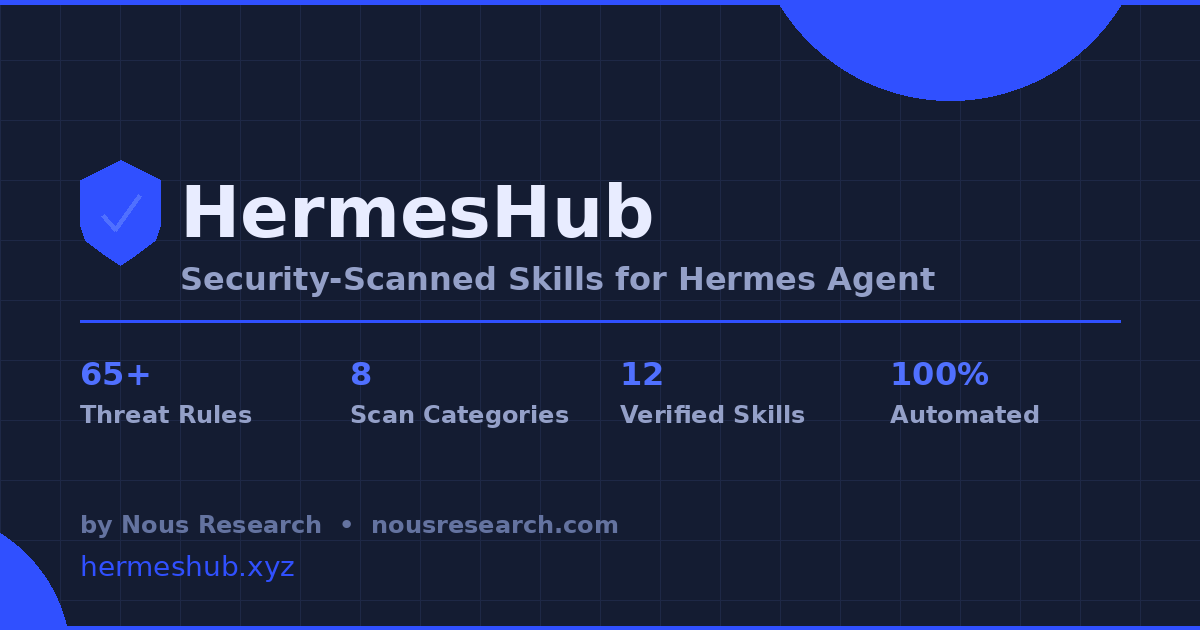
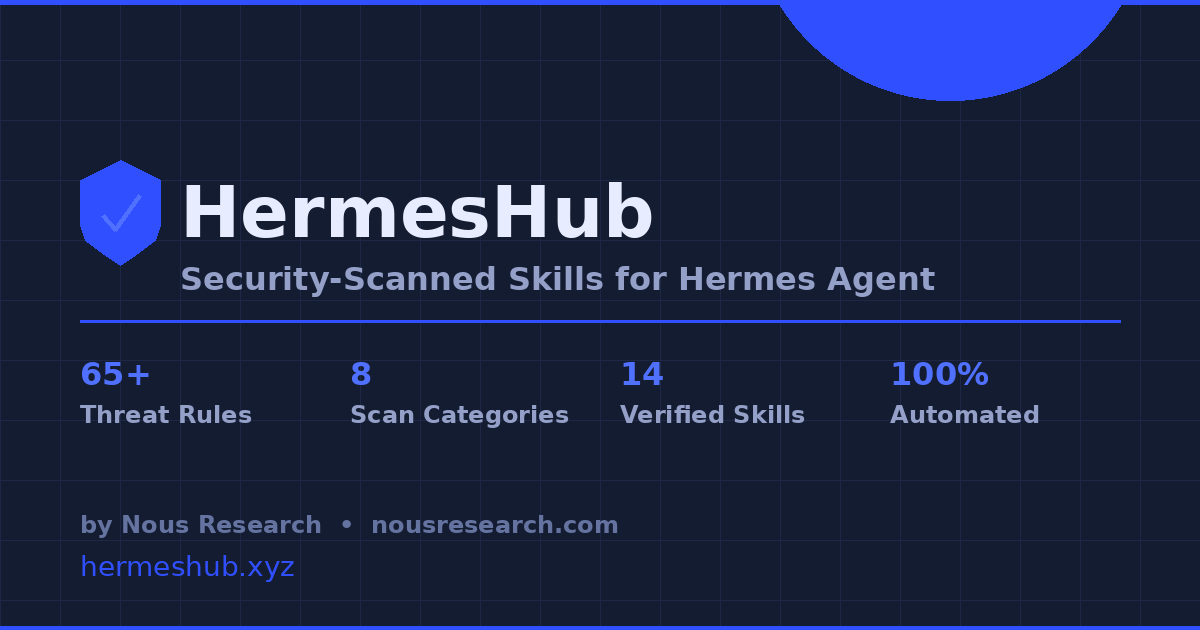
fix: auto-regenerate OG image with dynamic skill count
- Integrate generate-og.py into sync-skills.js (graceful fallback if no Pillow)
- Add Python + Pillow step to sync-skills GitHub Action
- Regenerated og-image.png with correct count (14)
- OG image now auto-updates whenever skills are added/removed

Changed region(s): [[0.0, 0.8444, 0.0617, 0.9952], [0.5242, 0.573, 0.555, 0.6032]]

diff --git a/scripts/sync-skills.js b/scripts/sync-skills.js
@@ -14,6 +14,7 @@
 import { readdirSync, readFileSync, writeFileSync, existsSync } from "fs";
 import { join, resolve } from "path";
 import { fileURLToPath } from "url";
+import { execSync } from "child_process";
 
 const __dirname = resolve(fileURLToPath(import.meta.url), "..");
 const ROOT = resolve(__dirname, "..");
@@ -296,6 +297,27 @@ ${skillUrls}
     }
     writeFileSync(META_FILE, JSON.stringify(metaObj, null, 2) + "\n", "utf-8");
     console.log(`📝 Created ${META_FILE} — edit this to customize featured/installCount/displayName`);
+  }
+
+  // ── Regenerate OG image with current skill count ───────────────────────
+  const ogScript = join(ROOT, "scripts/generate-og.py");
+  if (existsSync(ogScript)) {
+    try {
+      console.log(`\n🖼 Regenerating OG image with ${count} skills...`);
+      execSync(`python3 "${ogScript}" ${count}`, {
+        cwd: ROOT,
+        stdio: "inherit",
+      });
+    } catch (_) {
+      try {
+        execSync(`python "${ogScript}" ${count}`, {
+          cwd: ROOT,
+          stdio: "inherit",
+        });
+      } catch (_e) {
+        console.warn("⚠ OG image generation skipped (Python/Pillow not available)");
+      }
+    }
   }
 
   console.log(`\n✅ Sync complete: ${count} skills`);

diff --git a/scripts/generate-og.py b/scripts/generate-og.py
@@ -1,0 +1,116 @@
+#!/usr/bin/env python3
+"""Generate OG image for HermesHub with dynamic skill count.
+
+Usage: python scripts/generate-og.py [skill_count]
+If no argument, counts skills/*/SKILL.md directories automatically.
+"""
+import sys
+import os
+from pathlib import Path
+
+# Determine skill count
+if len(sys.argv) > 1:
+    skill_count = sys.argv[1]
+else:
+    skills_dir = Path(__file__).resolve().parent.parent / "skills"
+    count = sum(1 for d in skills_dir.iterdir()
+                if d.is_dir() and (d / "SKILL.md").exists())
+    skill_count = str(count)
+
+try:
+    from PIL import Image, ImageDraw, ImageFont
+except ImportError:
+    print(f"⚠ Pillow not installed — skipping OG image generation (would show {skill_count} skills)")
+    sys.exit(0)
+
+ROOT = Path(__file__).resolve().parent.parent
+OUTPUT = ROOT / "client" / "public" / "og-image.png"
+
+W, H = 1200, 630
+BG = (10, 14, 26)
+ACCENT = (48, 80, 255)
+ACCENT2 = (80, 112, 255)
+TEXT = (232, 236, 255)
+MUTED = (148, 160, 200)
+
+img = Image.new("RGBA", (W, H), BG + (255,))
+draw = ImageDraw.Draw(img)
+
+# Background gradient
+for y in range(H):
+    opacity = int(8 + 4 * abs((y - H/2) / (H/2)))
+    draw.line([(0, y), (W, y)], fill=(20, 28, 50, min(opacity, 30)))
+
+# Grid
+for x in range(0, W, 60):
+    draw.line([(x, 0), (x, H)], fill=(30, 40, 70, 20), width=1)
+for y in range(0, H, 60):
+    draw.line([(0, y), (W, y)], fill=(30, 40, 70, 20), width=1)
+
+# Glow top-right
+for r in range(200, 0, -2):
+    alpha = int(12 * (1 - r/200))
+    draw.ellipse([W-250-r, -100-r, W-250+r, -100+r], fill=(48, 80, 255, alpha))
+
+# Top/bottom accent bars
+draw.rectangle([0, 0, W, 4], fill=ACCENT)
+draw.rectangle([0, H-4, W, H], fill=ACCENT)
+
+# Fonts
+font_large = font_med = font_small = font_body = None
+for fp in ["/usr/share/fonts/truetype/dejavu/DejaVuSans-Bold.ttf",
+           "/usr/share/fonts/truetype/liberation/LiberationSans-Bold.ttf"]:
+    if os.path.exists(fp):
+        font_large = ImageFont.truetype(fp, 72)
+        font_med = ImageFont.truetype(fp, 32)
+        font_small = ImageFont.truetype(fp, 24)
+        break
+if font_large is None:
+    font_large = ImageFont.load_default()
+    font_med = font_large
+    font_small = font_large
+
+for fp in ["/usr/share/fonts/truetype/dejavu/DejaVuSans.ttf",
+           "/usr/share/fonts/truetype/liberation/LiberationSans-Regular.ttf"]:
+    if os.path.exists(fp):
+        font_body = ImageFont.truetype(fp, 28)
+        break
+if font_body is None:
+    font_body = font_med
+
+# Shield icon
+sx, sy = 80, 160
+shield = [(sx, sy+20), (sx, sy+65), (sx+5, sy+80), (sx+25, sy+95),
+          (sx+40, sy+105), (sx+55, sy+95), (sx+75, sy+80),
+          (sx+80, sy+65), (sx+80, sy+20), (sx+40, sy)]
+draw.polygon(shield, fill=(48, 80, 255, 60), outline=ACCENT)
+draw.line([(sx+22, sy+55), (sx+35, sy+70)], fill=ACCENT2, width=4)
+draw.line([(sx+35, sy+70), (sx+60, sy+35)], fill=ACCENT2, width=4)
+
+# Title + tagline
+draw.text((180, 170), "HermesHub", fill=TEXT, font=font_large)
+draw.text((180, 260), "Security-Scanned Skills for Hermes Agent", fill=MUTED, font=font_med)
+
+# Divider
+draw.rectangle([80, 320, 1120, 322], fill=(48, 80, 255, 80))
+
+# Stats — skill_count is dynamic
+stats = [
+    ("65+", "Threat Rules"),
+    ("8", "Scan Categories"),
+    (skill_count, "Verified Skills"),
+    ("100%", "Automated"),
+]
+stat_x = 80
+for num, label in stats:
+    draw.text((stat_x, 355), num, fill=ACCENT2, font=font_med)
+    draw.text((stat_x, 400), label, fill=MUTED, font=font_small)
+    stat_x += 270
+
+# Footer
+draw.text((80, 510), "by Nous Research  •  nousresearch.com", fill=(100, 115, 160), font=font_small)
+draw.text((80, 550), "hermeshub.xyz", fill=ACCENT, font=font_body)
+
+output = img.convert("RGB")
+output.save(str(OUTPUT), "PNG", quality=95)
+print(f"📸 Generated OG image: {skill_count} verified skills → {OUTPUT}")
